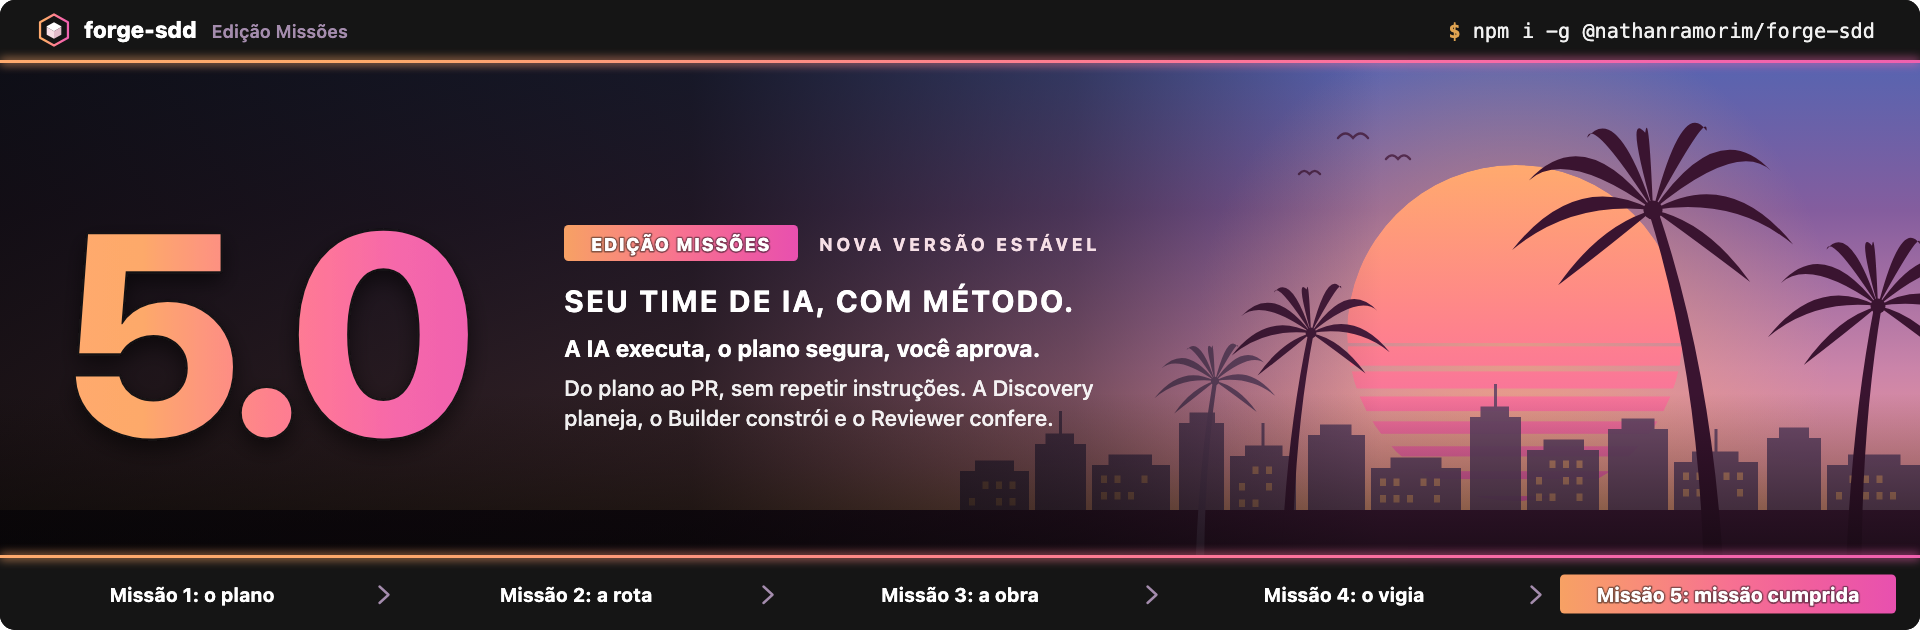
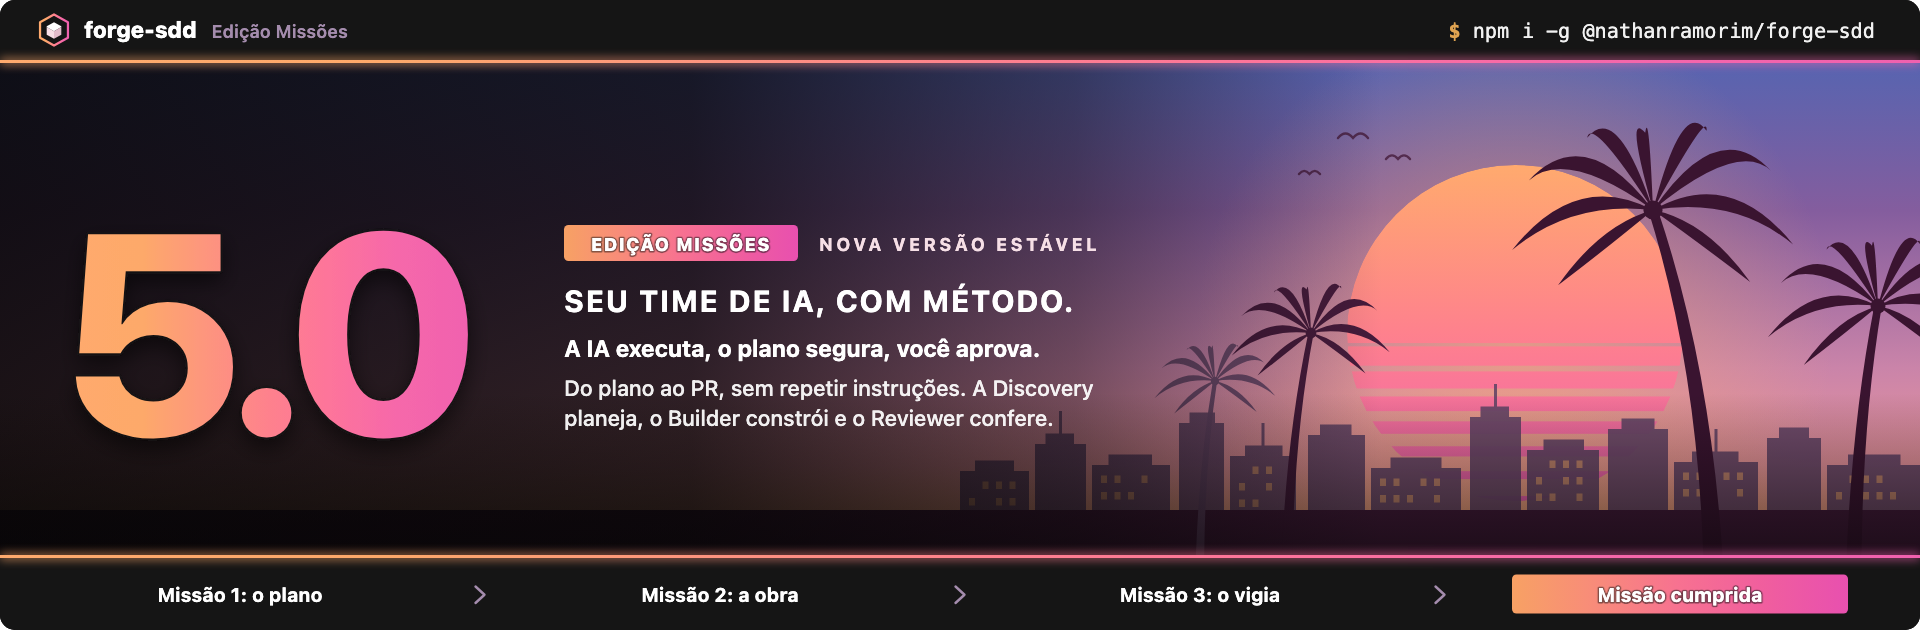
feat(101-07): edição alinhada aos pipelines (3 missões, 3 robôs)
O dono apontou que a visão de 5 estações não existe mais: o produto são
os pipelines. missoes.json passa a ter 3 missões (Discovery, Builder,
Reviewer) e o fecho 'Missão cumprida'; banner, espécime, READMEs, notas
da versão e a equipe do topo seguem a fonte única. O texto da LP não muda.

Claude-Session: https://claude.ai/code/session_01SPFA8upV4qiJJ5Y1pRT74k

Changed region(s): [[0.25, 0.9349, 0.75, 0.9651], [0.7812, 0.9048, 1.0, 0.9952], [0.0625, 0.9349, 0.1875, 0.9651]]

diff --git a/docs/edicao/edicao.js b/docs/edicao/edicao.js
@@ -19,8 +19,17 @@
   document.documentElement.setAttribute("data-edicao", edicao.id);
   if (!document.addEventListener) return;
 
-  /* Estação de cada cartão da LP, na ordem em que a página os desenha. */
+  /* Estação de cada cartão da LP, na ordem em que a página os desenha; a missão vem do JSON. */
   var estacaoDoCartao = ["Operação", "Concepção", "Planejamento", "Construção", "Governança"];
+
+  function missaoDaEstacao(dados, estacao) {
+    var lista = dados.missoes.concat(dados.fecho ? [dados.fecho] : []);
+    for (var k = 0; k < lista.length; k++) {
+      var item = lista[k];
+      if (item && typeof item.titulo === "string" && Array.isArray(item.estacoes) && item.estacoes.indexOf(estacao) !== -1) return item.titulo;
+    }
+    return null;
+  }
 
   function criar(tag, classe, texto) {
     var el = document.createElement(tag);
@@ -29,18 +38,14 @@
     return el;
   }
 
-  function rotularCartoes(missoes) {
+  function rotularCartoes(dados) {
     var cartoes = document.querySelectorAll("#estacoes .agent-card");
     for (var i = 0; i < cartoes.length; i++) {
       var meta = cartoes[i].querySelector(".agent-meta");
       var estacao = estacaoDoCartao[Number(cartoes[i].dataset.idx)];
       if (!meta || !estacao || meta.querySelector(".edicao-missao")) continue;
-      for (var k = 0; k < missoes.length; k++) {
-        var item = missoes[k];
-        if (item && typeof item.estacao === "string" && typeof item.titulo === "string" && item.estacao === estacao) {
-          meta.insertBefore(criar("div", "edicao-missao", item.titulo), meta.querySelector("h3"));
-        }
-      }
+      var titulo = missaoDaEstacao(dados, estacao);
+      if (titulo) meta.insertBefore(criar("div", "edicao-missao", titulo), meta.querySelector("h3"));
     }
   }
 
@@ -64,19 +69,17 @@
       faixa.appendChild(criar("span", "edicao-nome", dados.edicao));
       faixa.appendChild(criar("span", "edicao-promessa", dados.promessa));
       hero.insertBefore(faixa, hero.firstChild);
-      var ultima = dados.missoes[dados.missoes.length - 1];
-      if (ultima && typeof ultima.titulo === "string") {
-        var texto = ultima.titulo.split(": ").pop();
-        faixa.parentNode.insertBefore(criar("div", "edicao-placa", texto), faixa.nextSibling);
+      if (dados.fecho && typeof dados.fecho.titulo === "string") {
+        faixa.parentNode.insertBefore(criar("div", "edicao-placa", dados.fecho.titulo), faixa.nextSibling);
       }
     }
 
     var estacoes = document.getElementById("estacoes");
     if (!estacoes) return;
-    rotularCartoes(dados.missoes);
+    rotularCartoes(dados);
     tirarMascotes3D();
     if (window.MutationObserver) {
-      new MutationObserver(function () { rotularCartoes(dados.missoes); tirarMascotes3D(); }).observe(estacoes, { childList: true, subtree: true });
+      new MutationObserver(function () { rotularCartoes(dados); tirarMascotes3D(); }).observe(estacoes, { childList: true, subtree: true });
     }
   }
 

diff --git a/sdd/discovery/101-tema-missoes-v5/anexos/gerador-banner/documento.py b/sdd/discovery/101-tema-missoes-v5/anexos/gerador-banner/documento.py
@@ -116,7 +116,7 @@ def tabela_contraste():
 def readme():
     m = missoes()
     promessa = m["promessa"]
-    missoes_md = "\n".join(["| Missão | Estação |", "|---|---|"] + [f"| {x['titulo']} | {x['estacao']} |" for x in m["missoes"]])
+    missoes_md = "\n".join(["| Missão | Sessão |", "|---|---|"] + [f"| {x['titulo']} | {x['sessao']} |" for x in m["missoes"]] + [f"| {m['fecho']['titulo']} | {m['fecho']['sessao']} |"])
     fontes = "\n".join(["| Papel | Uso | Pilha |", "|---|---|---|"] + [f"| `{n}` | {f['uso']} | `{f['pilha']}` |" for n, f in FONTS.items()])
     return f"""# Design system da Edição Missões
 
@@ -134,7 +134,7 @@ As regras de marca desta edição estão em `sdd/discovery/101-tema-missoes-v5/`
 |---|---|
 | **Referência de cor** | [Conceito de interface de Matías Rodríguez no Behance]({URL}), publicado em 25/04/2025. {AVISO} |
 | **O que foi medido** | Cores e degradês, amostrados por script nas pranchas publicadas, em 19/11/2026. Tolerância de ±2 por canal. |
-| **O que é nosso** | Marca, tipografia, ilustrações, textos e as 5 missões. |
+| **O que é nosso** | Marca, tipografia, ilustrações, textos e as missões. |
 | **O que não entra** | Logotipos, letreiros, numerais, personagens, fontes e interface de jogos. |
 
 ## Princípios
@@ -144,7 +144,7 @@ As regras de marca desta edição estão em `sdd/discovery/101-tema-missoes-v5/`
 3. **Branco para ler, cor para estado.** O texto é branco. Âmbar, rosa e degradê aparecem só em seleção, foco e seção ativa.
 4. **Um sinal por estado.** Degradê `chip` é seção ativa, `ambar` é linha selecionada e `rosa-foco` é foco.
 
-## As 5 missões
+## As missões
 
 {missoes_md}
 
@@ -210,7 +210,7 @@ As quatro últimas linhas ficam abaixo do recomendado. No banner e no espécime,
 |---|---|
 | [`tokens.json`](tokens.json) | Tokens de cor, degradê e tipografia, com uso e origem |
 | [`tokens.css`](tokens.css) | Os mesmos tokens como variáveis CSS (`--missoes-*`) |
-| [`missoes.json`](missoes.json) | As 5 missões e a promessa, em fonte única |
+| [`missoes.json`](missoes.json) | As missões, o fecho e a promessa, em fonte única |
 | [`identidade.json`](identidade.json) e `logo.svg.frag` | Identidade no formato do readme-studio, para gerar novos banners |
 | [`especime.svg`](especime.svg) | Folha de espécime no topo desta página |
 | [`../../img/banner-v5-missoes.svg`](../../img/banner-v5-missoes.svg) | Banner do README na edição (há uma cópia em PNG para o npm) |

diff --git a/sdd/discovery/101-tema-missoes-v5/anexos/gerador-banner/personagens.py b/sdd/discovery/101-tema-missoes-v5/anexos/gerador-banner/personagens.py
@@ -18,7 +18,7 @@ ROBOS = {
     "governanca": {"nome": "Governança", "cor": "#ff8a5c", "escuro": "#c24a1e", "claro": "#ffcdb5", "marca": "tri", "olhos": "crescentes", "roupa": "colete", "cabeca": ["bone"], "peito": ["corrente"], "mao": "porrete"},
 }
 
-ORDEM_EQUIPE = ["planejador", "pm", "lider", "builders", "governanca"]
+ORDEM_EQUIPE = ["pm", "builders", "governanca"]
 
 
 def p(d, fill="none", stroke=CONTORNO, sw=5, extra=""):
@@ -194,8 +194,8 @@ def retrato(chave):
 
 def equipe():
     largura, altura = 1100, 330
-    escalas = {"planejador": 0.96, "pm": 1.0, "lider": 1.1, "builders": 1.0, "governanca": 0.96}
-    xs = {"planejador": 40, "pm": 250, "lider": 450, "builders": 690, "governanca": 880}
+    escalas = {"pm": 1.0, "builders": 1.1, "governanca": 1.0}
+    xs = {"pm": 230, "builders": 470, "governanca": 730}
     todos_defs, todos = [], []
     for chave in ORDEM_EQUIPE:
         defs, corpo = figura(chave, "e-" + chave)

diff --git a/sdd/discovery/101-tema-missoes-v5/anexos/gerador-banner/specimen.py b/sdd/discovery/101-tema-missoes-v5/anexos/gerador-banner/specimen.py
@@ -2,7 +2,7 @@
 import sys
 
 from parts import CONTORNO, FONT, MONO, grad, neon, palm, striped_sun
-from tokens import GRADIENTS, TOKENS, c, missoes
+from tokens import GRADIENTS, TOKENS, c, missoes, titulos_missoes
 
 W, H = 1280, 1330
 WINE = c("superficie", "vinho")
@@ -19,7 +19,7 @@ def note(x, y, text, anchor="start", size=12):
 
 def build():
     m = missoes()
-    titulos = [x["titulo"] for x in m["missoes"]]
+    titulos = titulos_missoes()
     o = []
     o.append(f'<svg xmlns="http://www.w3.org/2000/svg" width="{W}" height="{H}" viewBox="0 0 {W} {H}" role="img" '
              f'aria-label="Espécime do design system da {m["edicao"]} do forge-sdd: tipografia, paleta, degradês, cores e componentes.">')

diff --git a/sdd/discovery/101-tema-missoes-v5/anexos/gerador-banner/banner.py b/sdd/discovery/101-tema-missoes-v5/anexos/gerador-banner/banner.py
@@ -2,7 +2,7 @@
 import sys
 
 from parts import CONTORNO, FONT, MONO, grad, logo, neon, palm, skyline, striped_sun
-from tokens import c, missoes
+from tokens import c, missoes, titulos_missoes
 
 W, H = 1280, 420
 TOP, BOT = 40, 372
@@ -11,7 +11,7 @@ ART0, ART1 = 42, 370
 
 def build():
     m = missoes()
-    titulos = [x["titulo"] for x in m["missoes"]]
+    titulos = titulos_missoes()
     o = []
     rotulo = f'forge-sdd 5.0, {m["edicao"]}: seu time de IA, com método. ' + '; '.join(titulos) + '.'
     o.append(f'<svg xmlns="http://www.w3.org/2000/svg" width="{W}" height="{H}" viewBox="0 0 {W} {H}" role="img" aria-label="{rotulo}">')

diff --git a/sdd/discovery/101-tema-missoes-v5/anexos/gerador-banner/tokens.py b/sdd/discovery/101-tema-missoes-v5/anexos/gerador-banner/tokens.py
@@ -80,3 +80,8 @@ def c(group, name):
 def missoes():
     with open(os.path.join(PASTA, "missoes.json"), encoding="utf-8") as f:
         return json.load(f)
+
+
+def titulos_missoes():
+    m = missoes()
+    return [x["titulo"] for x in m["missoes"]] + [m["fecho"]["titulo"]]

diff --git a/sdd/discovery/101-tema-missoes-v5/features/feat-101-07-edicao-alinhada-aos-pipelines.md b/sdd/discovery/101-tema-missoes-v5/features/feat-101-07-edicao-alinhada-aos-pipelines.md
@@ -1,0 +1,116 @@
+# feat-101-07 — Edição alinhada aos pipelines: 3 missões, 3 robôs
+
+**Iniciativa:** 101-tema-missoes-v5
+**Status:** ready
+**Tamanho:** M
+**Depende de:** feat-101-06 (robôs 2D), fix-101-01 (`missoes.json`)
+
+## Objetivo
+
+O Nathan apontou que a visão de 5 estações (com o Arquiteto) já não existe: o produto agora são pipelines, as 3 sessões Discovery, Builder e Reviewer do README. A edição foi construída em cima dos 5. Esta task a alinha ao produto atual: 3 missões e 3 robôs na equipe, mais o fecho "Missão cumprida".
+
+## Decisões registradas (Nathan, 19/11/2026)
+
+- "Tema com 3 missões e 3 robôs": Discovery é a Missão 1 (o plano), Builder a Missão 2 (a obra) e Reviewer a Missão 3 (o vigia), com o fecho "Missão cumprida" para a sua aprovação.
+- O texto da LP (os 5 cartões da seção de estações) **não muda** nesta task; muda só o que a edição põe por cima. Atualizar o conteúdo da LP para as 3 sessões é outra decisão.
+
+## Modelo do módulo
+
+**Enxuto** (ARQ-11): `missoes.json`, o gerador anexo, o JS e o CSS da camada, os dois READMEs e o histórico. Nenhum Go.
+
+## O que muda
+
+1. **`missoes.json`**, a fonte única, passa a ter 3 missões e o fecho:
+
+   | Missão | Sessão | Estações da LP que ela cobre |
+   |---|---|---|
+   | Missão 1: o plano | Discovery | Concepção, Planejamento |
+   | Missão 2: a obra | Builder | Construção |
+   | Missão 3: o vigia | Reviewer | Governança |
+   | Missão cumprida (fecho) | Você aprova | Operação |
+
+2. **LP:** cada cartão ganha o rótulo da missão que cobre a sua estação (o do Líder diz "Missão cumprida"). A placa de neon lê o texto do fecho no JSON.
+3. **Equipe do topo:** 3 robôs (Discovery, Builder, Reviewer). Os retratos dos cartões continuam um por estação.
+4. **Banner, espécime, documento do design system e os dois READMEs:** passam a mostrar as 3 missões e o fecho, gerados da fonte única.
+5. **Textos da iniciativa e do histórico:** "5 estações como missões" vira as 3 missões e o fecho.
+
+## Fora do escopo
+
+Reescrever o conteúdo da seção de estações da LP, o hero e os textos da wiki; os retratos dos cartões; nome e vigência da edição.
+
+## Decisões do projeto aplicadas
+
+- **Discovery 101:** substitui a decisão do Gate 1 que mapeava 5 estações em 5 missões; registrada na própria discovery.
+- **Critérios 1, 3 e 7 da iniciativa** (`criteria.md`); o 3 passa a falar das 3 missões e do fecho.
+- **FLX-02:** branch única da iniciativa.
+
+## O que já existe
+
+| Procurei | Onde | Achei | Decisão |
+|---|---|---|---|
+| Fonte única das missões | `docs/design/edicao-missoes/missoes.json` | 5 missões | estender: 3 missões, `estacoes` por missão e `fecho` |
+| Leitura do JSON | `docs/edicao/edicao.js`, `rotularCartoes` e placa | Mapeia estação a missão por lista fixa | estender: usa `estacoes` do JSON |
+| Geradores | `anexos/gerador-banner/*.py` | Montam as missões a partir do JSON | estender com `titulos_missoes()` em `tokens.py` |
+| Equipe | `personagens.py`, `ORDEM_EQUIPE` | 5 robôs | estender: 3 |
+| Textos que citam 5 missões | READMEs, `history.md`, `criteria.md`, specs 101-01 e fix-101-01 | Várias | atualizar |
+
+## Dependências novas
+
+Nenhuma.
+
+## Rules e IDs da Constituição Aplicáveis
+
+- **ARQ-11**, **DUP-02**, **COD-01**, **COD-04**, **COD-05**, **SEG-07**, **TST-01**, **TST-05**, **FLX-01**, **FLX-02**.
+- Rules: `.agents/rules/sdd-reuso-e-duplicacao.md`, `.agents/rules/sdd-codigo-e-testes.md`, `.agents/rules/sdd-fluxo-e-portao.md`.
+
+## Critérios de Aceitação Executáveis
+
+```bash
+base=$(git merge-base HEAD origin/main)
+
+# 1. A fonte única tem 3 missões e o fecho, cada estação da LP em exatamente uma
+node -e '
+const m = require("./docs/design/edicao-missoes/missoes.json");
+if (m.missoes.length !== 3 || !m.fecho || !m.fecho.titulo) { console.error("estrutura"); process.exit(1); }
+const todas = [].concat(...m.missoes.map(x => x.estacoes), m.fecho.estacoes);
+for (const e of ["Operação","Concepção","Planejamento","Construção","Governança"])
+  if (todas.filter(x => x === e).length !== 1) { console.error("estação sem missão única:", e); process.exit(1); }
+console.log("ok");'
+
+# 2. READMEs, banner e espécime com o mesmo texto da fonte única
+node -e '
+const fs = require("fs");
+const m = require("./docs/design/edicao-missoes/missoes.json");
+const titulos = m.missoes.map(x => x.titulo).concat(m.fecho.titulo);
+for (const f of ["README.md", "npm/README.md", "docs/img/banner-v5-missoes.svg", "docs/design/edicao-missoes/especime.svg"]) {
+  const t = fs.readFileSync(f, "utf8");
+  for (const x of titulos) if (!t.includes(x)) { console.error(f, "sem:", x); process.exit(1); }
+}
+for (const f of ["README.md", "npm/README.md"]) if (/Missão 4|Missão 5|a rota/.test(fs.readFileSync(f, "utf8"))) { console.error("resto de missão antiga:", f); process.exit(1); }'
+
+# 3. A camada lê as estações do JSON, sem lista fixa de missões, e a equipe tem 3 robôs
+grep -q 'estacoes' docs/edicao/edicao.js
+test "$(grep -c -i -E 'o plano|a obra|o vigia|cumprida' docs/edicao/edicao.js docs/edicao/edicao.css | awk -F: '{s+=$2} END{print s}')" = "0"
+( cd sdd/discovery/101-tema-missoes-v5/anexos/gerador-banner && python3 personagens.py /tmp/eq-ensaio >/dev/null && cmp /tmp/eq-ensaio/equipe.svg ../../../../../docs/edicao/equipe.svg; r=$?; rm -rf __pycache__ /tmp/eq-ensaio; exit $r )
+test "$(grep -o '<ellipse cx="[0-9]*" cy="324"' docs/edicao/equipe.svg | wc -l | tr -d ' ')" = "3"
+
+# 4. Os geradores reproduzem banner e espécime
+( cd sdd/discovery/101-tema-missoes-v5/anexos/gerador-banner && python3 banner.py /tmp/b-ensaio.svg >/dev/null && cmp /tmp/b-ensaio.svg ../../../../../docs/img/banner-v5-missoes.svg && python3 specimen.py /tmp/s-ensaio.svg >/dev/null && cmp /tmp/s-ensaio.svg ../../../../../docs/design/edicao-missoes/especime.svg; r=$?; rm -rf __pycache__ /tmp/b-ensaio.svg /tmp/s-ensaio.svg; exit $r )
+
+# 5. Marca de terceiros e HTML intacto fora dos marcadores
+test "$(grep -rn -i -E 'gta|grand theft|vice city|pricedown|rockstar|take-two|lucia|jason' docs/edicao | wc -l | tr -d ' ')" = "0"
+for f in docs/index.html docs/wiki.html; do
+  diff <(git show "$base:$f") <(sed '/edicao:inicio/,/edicao:fim/d' "$f") >/dev/null || { echo "mudou fora dos marcadores: $f"; exit 1; }
+done
+
+# 6. Portão do projeto
+go test ./... && go vet ./...
+```
+
+## Conferência visual (Gate 2)
+
+Topo com 3 robôs, placa "Missão cumprida" e cartões com o rótulo certo; banner e README com as 3 missões e o fecho. Peça registrada em `revisao-pi.md`.
+
+## Status
+
+- [x] Implementado em feat-101-07 (19/11/2026): critérios 1 a 5 com saída 0 e `forge gate` em bloqueio sem pendências.

diff --git a/docs/design/edicao-missoes/README.md b/docs/design/edicao-missoes/README.md
@@ -14,7 +14,7 @@ As regras de marca desta edição estão em `sdd/discovery/101-tema-missoes-v5/`
 |---|---|
 | **Referência de cor** | [Conceito de interface de Matías Rodríguez no Behance](https://www.behance.net/gallery/224512205), publicado em 25/04/2025. Conteúdo original, sem ligação com a Rockstar/Take-Two. |
 | **O que foi medido** | Cores e degradês, amostrados por script nas pranchas publicadas, em 19/11/2026. Tolerância de ±2 por canal. |
-| **O que é nosso** | Marca, tipografia, ilustrações, textos e as 5 missões. |
+| **O que é nosso** | Marca, tipografia, ilustrações, textos e as missões. |
 | **O que não entra** | Logotipos, letreiros, numerais, personagens, fontes e interface de jogos. |
 
 ## Princípios
@@ -24,15 +24,14 @@ As regras de marca desta edição estão em `sdd/discovery/101-tema-missoes-v5/`
 3. **Branco para ler, cor para estado.** O texto é branco. Âmbar, rosa e degradê aparecem só em seleção, foco e seção ativa.
 4. **Um sinal por estado.** Degradê `chip` é seção ativa, `ambar` é linha selecionada e `rosa-foco` é foco.
 
-## As 5 missões
+## As missões
 
-| Missão | Estação |
+| Missão | Sessão |
 |---|---|
-| Missão 1: o plano | Concepção |
-| Missão 2: a rota | Planejamento |
-| Missão 3: a obra | Construção |
-| Missão 4: o vigia | Governança |
-| Missão 5: missão cumprida | Operação |
+| Missão 1: o plano | Discovery |
+| Missão 2: a obra | Builder |
+| Missão 3: o vigia | Reviewer |
+| Missão cumprida | Você aprova |
 
 A promessa da edição: "A IA executa, o plano segura, você aprova."
 
@@ -158,7 +157,7 @@ As quatro últimas linhas ficam abaixo do recomendado. No banner e no espécime,
 |---|---|
 | [`tokens.json`](tokens.json) | Tokens de cor, degradê e tipografia, com uso e origem |
 | [`tokens.css`](tokens.css) | Os mesmos tokens como variáveis CSS (`--missoes-*`) |
-| [`missoes.json`](missoes.json) | As 5 missões e a promessa, em fonte única |
+| [`missoes.json`](missoes.json) | As missões, o fecho e a promessa, em fonte única |
 | [`identidade.json`](identidade.json) e `logo.svg.frag` | Identidade no formato do readme-studio, para gerar novos banners |
 | [`especime.svg`](especime.svg) | Folha de espécime no topo desta página |
 | [`../../img/banner-v5-missoes.svg`](../../img/banner-v5-missoes.svg) | Banner do README na edição (há uma cópia em PNG para o npm) |

diff --git a/sdd/discovery/101-tema-missoes-v5/fixes/fix-101-01-alinhar-readme-e-design-system.md b/sdd/discovery/101-tema-missoes-v5/fixes/fix-101-01-alinhar-readme-e-design-system.md
@@ -120,11 +120,10 @@ Nenhuma.
 
 ```bash
 # 1. Nenhuma marca de terceiros fora da linha de crédito
-grep -rn -i -E "gta|grand theft|vice city|pricedown|rockstar|take-two" \
+test "$(grep -rn -i -E "gta|grand theft|vice city|pricedown|rockstar|take-two" \
   --include="*.md" --include="*.svg" --include="*.json" --include="*.css" --include="*.frag" \
   README.md npm/README.md sdd/releases/history.md docs/img docs/design \
-  | grep -v -E "sem ligação com a Rockstar/Take-Two|behance\.net/gallery/224512205"
-# não deve devolver nenhuma linha
+  | grep -v -E "sem ligação com a Rockstar/Take-Two|behance\.net/gallery/224512205" | wc -l | tr -d ' ')" = "0"
 
 # 2. Nomes antigos saem, nomes novos entram
 test ! -e docs/design/gta-vi && test ! -e docs/img/banner-v5-gta-vi.svg && test ! -e docs/img/banner-v5-gta-vi.png
@@ -140,14 +139,14 @@ for f in README.md npm/README.md sdd/releases/history.md; do
 done
 test "$(grep -c '^### Versão 5.0.0' sdd/releases/history.md)" = "1"
 
-# 4. As 5 missões saem da fonte única e aparecem iguais nos dois READMEs
+# 4. As missões (3 e o fecho, desde a feat-101-07) saem da fonte única e aparecem iguais nos dois READMEs
 node -e '
 const fs = require("fs");
 const m = JSON.parse(fs.readFileSync("docs/design/edicao-missoes/missoes.json", "utf8"));
-if (m.missoes.length !== 5) { console.error("esperava 5 missões"); process.exit(1); }
+if (m.missoes.length !== 3 || !m.fecho) { console.error("esperava 3 missões e o fecho"); process.exit(1); }
 for (const f of ["README.md", "npm/README.md"]) {
   const t = fs.readFileSync(f, "utf8");
-  for (const x of m.missoes) if (!t.includes(x.titulo)) { console.error(f, "sem:", x.titulo); process.exit(1); }
+  for (const x of m.missoes.concat(m.fecho)) if (!t.includes(x.titulo)) { console.error(f, "sem:", x.titulo); process.exit(1); }
 }
 console.log("ok");'
 

diff --git a/sdd/discovery/101-tema-missoes-v5/revisao-pi.md b/sdd/discovery/101-tema-missoes-v5/revisao-pi.md
@@ -13,3 +13,4 @@ Uma linha por peça publicada. A régua é o critério 1 da iniciativa: nenhuma 
 | Visual intenso da LP (`docs/edicao/hero-arte.svg`, placa de neon, cartões em mosaico) | Arte gerada por script próprio (céu, sol listrado, palmeiras e skyline em formas geométricas), sem texto, rosto ou personagem. A placa usa só o texto de `missoes.json`. Sem nome de jogo/empresa, logo, letreiro parecido ou interface de jogo. | Conforme | Builder (`feat-101-04`) | 19/11/2026 |
 | Figurino dos mascotes (`docs/edicao/edicao-mascotes.js`) | Itens genéricos de figurino (chapéu panamá, charuto de brinquedo, corrente e brinco de ouro, gola florida, boné de aba reta) em geometria pura nos mascotes do forge-sdd. Sem personagem, rosto, nome ou semelhança com personagens de jogo; sem arquivo externo. | Conforme | Builder (`feat-101-05`) | 19/11/2026 |
 | Robôs em arte 2D (`docs/edicao/personagens/*.svg`, `equipe.svg`) | Desenhos gerados por script próprio dos cinco robôs do forge-sdd: cabeça redonda com visor, antena e marca da estação, em estilo de contorno grosso e cor chapada. Sem texto, rosto humano ou personagem de jogo; nenhuma pose reproduz a arte de capa (casal encostado em carro). Figurino genérico; armas e charuto de brinquedo. | Conforme | Builder (`feat-101-06`) | 19/11/2026 |
+| Edição alinhada aos pipelines (`missoes.json`, banner, espécime, READMEs, equipe de 3 robôs) | 3 missões (o plano, a obra, o vigia) e o fecho "Missão cumprida", textos próprios vindos da fonte única; equipe reduzida a 3 robôs do forge-sdd. Sem nome de jogo/empresa, personagem ou interface de jogo. | Conforme | Builder (`feat-101-07`) | 19/11/2026 |

diff --git a/sdd/releases/history.md b/sdd/releases/history.md
@@ -16,7 +16,7 @@ Compatível com a 4.8.0. Consolida em versão estável tudo o que foi entregue n
 *   **Diagramas C4 com dois motores:** a skill de diagramas pergunta, a cada uso, se você quer Mermaid ou diagram-studio (Iniciativa 98).
 *   **`forge rules` volta a achar os IDs da Constituição** (`fix-88-05`).
 *   **Vindo da linha 4.9.x:** o modo pipeline avançado (experimental), o menu Settings e os tetos desligados por padrão passam a fazer parte da versão estável. O modo normal não muda.
-*   **Edição Missões:** o README ganha um banner temático e as 5 estações aparecem como missões: o plano, a rota, a obra, o vigia e missão cumprida. O design system da edição fica em `docs/design/edicao-missoes/`. É uma homenagem ao clima de pôr do sol, neon e palmeiras, com marca, tipografia e ilustrações próprias.
+*   **Edição Missões:** o README ganha um banner temático e as sessões do pipeline aparecem como missões: Discovery é o plano, Builder é a obra, Reviewer é o vigia, e a sua aprovação fecha com "Missão cumprida". O design system da edição fica em `docs/design/edicao-missoes/`. É uma homenagem ao clima de pôr do sol, neon e palmeiras, com marca, tipografia e ilustrações próprias.
 *   **Como atualizar:** `npm install -g @nathanramorim/forge-sdd` e, nos projetos existentes, `forge update`.
 
 ### Versão 4.9.1 — Correções do Modo Avançado: Fila, Teto Diário e Tetos no Settings (Beta)

diff --git a/sdd/discovery/101-tema-missoes-v5/status.md b/sdd/discovery/101-tema-missoes-v5/status.md
@@ -1,9 +1,8 @@
 # Status 101
 
-**Status:** 7 tasks construídas e aprovadas pela Governança (19/11/2026); PR #111 pronto para o seu merge.
-**Fila:** fix-101-01 e feat-101-01 a 101-06, todas `approved`. A 101-06 trocou o 3D por robôs 2D em arte de tela de carregamento (retratos e equipe).
-**Em curso:** cenário de praia, motel art déco, colagem de painéis e textura (feat-101-07).
+**Status:** 8 tasks construídas (19/11/2026); PR #111 pronto para o seu merge após o parecer da 101-07.
+**Fila:** fix-101-01 e feat-101-01 a 101-06 `approved`; 101-07 (edição alinhada aos pipelines: 3 missões e 3 robôs) em revisão.
+**Decisão do dono:** a edição segue os pipelines (Discovery, Builder, Reviewer); o texto da seção de estações da LP continua o da v3 e é outra decisão.
 **Falta conferir (humano):** celular em 390 px; disparo manual do workflow de encerramento.
 **Dependência externa:** PR #112 mesclado, para o deploy automático da LP.
-**Vigência:** a edição termina em 23/11/2026, 0h de Brasília; o site volta sozinho e o PR de encerramento abre na virada.
-**Próximo passo:** merge do #112 e depois do #111.
+**Vigência:** a edição termina em 23/11/2026, 0h de Brasília.
